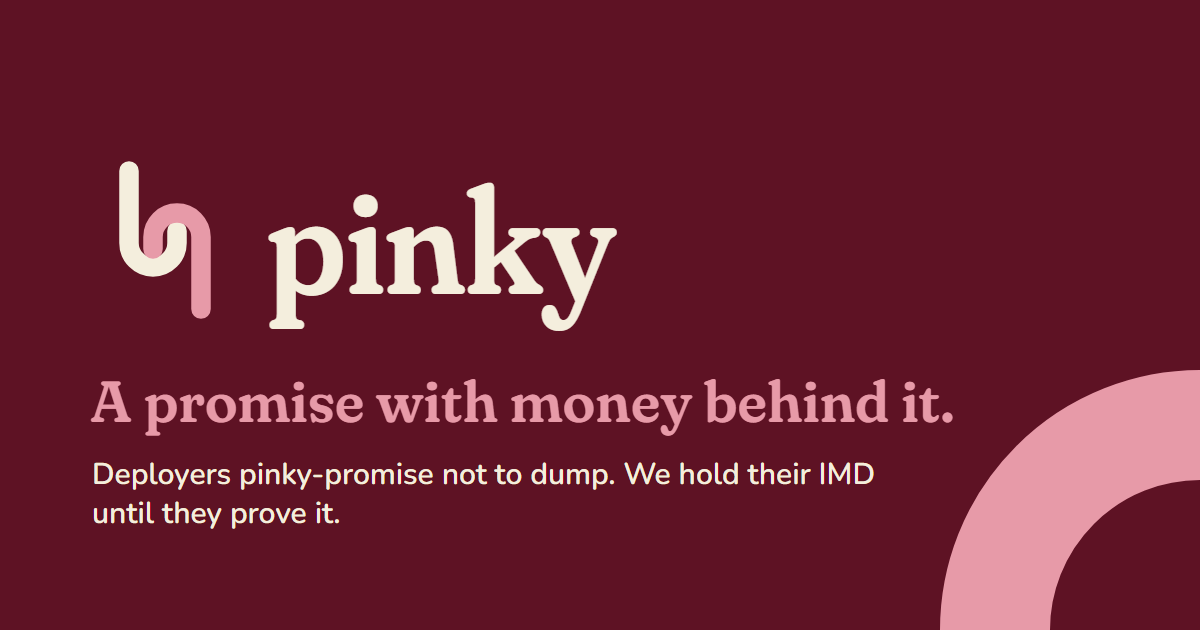
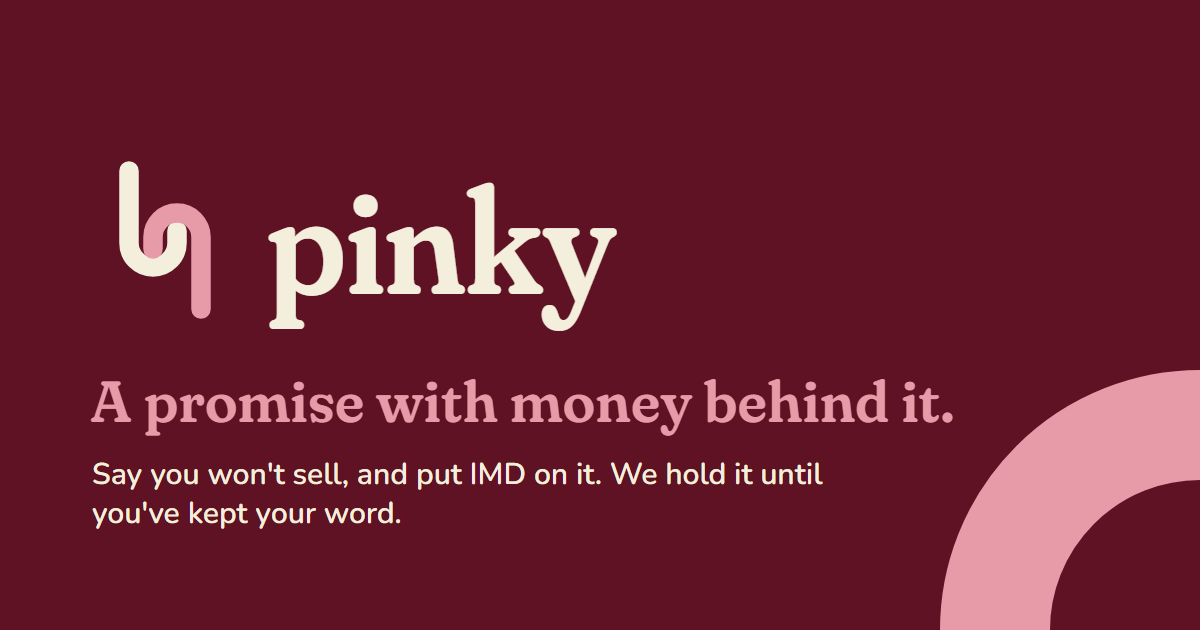
Speak to anyone who holds a token, not only to deployers
The vault never cared who makes a promise; the words did. The lede,
the first step, the descriptions and the preview image now address any
holder, and a new block gives three of them: the one who launched it,
the one who holds a lot, the one who was paid in it. The form refuses
an NFT address with a reason, and the README records why a promise
about an NFT would be judged on nothing.

Changed region(s): [[0.0617, 0.7238, 0.74, 0.8444]]

diff --git a/site/index.html b/site/index.html
@@ -4,12 +4,12 @@
 <meta charset="utf-8">
 <meta name="viewport" content="width=device-width, initial-scale=1">
 <title>Pinky — a promise with money behind it</title>
-<meta name="description" content="Deployers pinky-promise not to dump. Pinky holds their IMD until the IdentityMD oracle says they kept their word.">
+<meta name="description" content="Say you won&#39;t sell, and put IMD on it. Pinky holds the bond until the IdentityMD oracle says you kept your word.">
 <link rel="canonical" href="https://pinkybond.fun/">
 <meta property="og:type" content="website">
 <meta property="og:url" content="https://pinkybond.fun/">
 <meta property="og:title" content="Pinky — a promise with money behind it">
-<meta property="og:description" content="Deployers pinky-promise not to dump. Pinky holds their IMD until the IdentityMD oracle says they kept their word.">
+<meta property="og:description" content="Say you won&#39;t sell, and put IMD on it. Pinky holds the bond until the IdentityMD oracle says you kept your word.">
 <meta property="og:image" content="https://pinkybond.fun/og.png">
 <meta name="twitter:card" content="summary_large_image">
 <meta name="theme-color" content="#5E1224">
@@ -39,7 +39,7 @@
   <div class="wrap hero-grid">
     <div class="pitch">
       <h1>A promise with money behind it.</h1>
-      <p class="lede">Every deployer says they won't dump. Here they <mark>put IMD on it.</mark> Keep your word and it comes home. Break it and it doesn't.</p>
+      <p class="lede">Anyone can say they won't sell. Here you <mark>put IMD on it.</mark> Keep your word and it comes home. Break it and it doesn't.</p>
       <dl class="stats" id="stats">
         <div><dt>Promises made</dt><dd data-stat="made">—</dd></div>
         <div><dt>Kept</dt><dd data-stat="kept">—</dd></div>
@@ -96,15 +96,25 @@
     <p class="fine">Fair warning: this pays only when a promise is broken. If everyone keeps their word, stakers earn nothing, and that's the good outcome.</p>
   </section>
 
+  <section id="who">
+    <h2>Whose word?</h2>
+    <p class="sub">Anyone who holds a token and wants to be believed when they say they'll keep holding it.</p>
+    <ul class="who-list">
+      <li><h3>The one who launched it</h3><p><em>“The team's tokens stay put for the first week.”</em></p></li>
+      <li><h3>The one who holds a lot</h3><p><em>“I'm not selling into this. Watch my wallet.”</em></p></li>
+      <li><h3>The one who was paid in it</h3><p><em>“I got these for the post. I'm holding them for a month.”</em></p></li>
+    </ul>
+  </section>
+
   <section id="how">
     <h2>How it works</h2>
     <ol class="steps">
-      <li><h3>Put IMD on it</h3><p>A deployer picks a token, a limit and a deadline, and locks IMD behind one sentence: <em>my wallet won't move more than this before then.</em></p></li>
+      <li><h3>Put IMD on it</h3><p>Pick a token you hold, a limit and a deadline, and lock IMD behind one sentence: <em>my wallet won't move more than this before then.</em></p></li>
       <li><h3>Time runs out</h3><p>Anyone closes the promise. That fixes the exact block range it covered, start to finish.</p></li>
       <li><h3>The swarm counts</h3><p>The contract pays the IdentityMD oracle 0.5 IMD out of the bond. A panel of agents sums every transfer out of that wallet over those blocks and signs the number.</p></li>
       <li><h3>The number decides</h3><p>Within the limit: the bond goes home. Over it: a tenth goes to the first watcher who asked, and the rest is split between PINKY stakers and a burn.</p></li>
     </ol>
-    <p class="fine">A promise covers one wallet and one token, and nobody can pause or edit it once it's made. If the oracle can't answer after three tries, the bond is returned.</p>
+    <p class="fine">A promise covers one wallet and one ordinary token (ERC-20; NFTs aren't supported yet), and nobody can pause or edit it once it's made. If the oracle can't answer after three tries, the bond is returned.</p>
     <p class="fine">Before launch the IdentityMD swarm audited the contracts: one audit of the code as written, four specialist audits and a judge. What they found was fixed, and <a href="https://github.com/hexysdev/pinky/blob/main/ADAPTATION.md" target="_blank" rel="noopener">the list is public</a>. That is a review by AI agents, not an audit by an outside firm, so read the contracts before you trust them.</p>
   </section>
 </main>

diff --git a/site/style.css b/site/style.css
@@ -154,6 +154,11 @@ h3 { font: 700 18px/1.3 var(--sans); margin: 0 0 4px; }
 .pool-actions input:focus { outline: none; border-color: var(--pink); }
 .warn { margin: 0; padding: 10px 14px; border-radius: 12px; background: var(--wine); color: var(--ivory); font-size: 15px; }
 
+.who-list { list-style: none; padding: 0; margin: 0; display: grid; grid-template-columns: repeat(3, minmax(0, 1fr)); gap: 14px; }
+.who-list li { background: var(--paper); border: 1px solid var(--line); border-radius: 20px; padding: 18px 22px; }
+.who-list p { margin: 0; font: 400 19px/1.4 var(--display); font-variation-settings: 'SOFT' 100, 'WONK' 0; }
+.who-list em { font-style: normal; }
+
 .steps { list-style: none; counter-reset: step; padding: 0; margin: 20px 0; display: grid; grid-template-columns: repeat(2, minmax(0, 1fr)); gap: 14px; }
 .steps li { counter-increment: step; background: var(--paper); border: 1px solid var(--line); border-radius: 20px; padding: 18px 22px 16px; }
 .steps li::before { content: counter(step); display: inline-grid; place-items: center; width: 32px; height: 32px; border-radius: 50%; background: var(--pink); font: 600 17px var(--display); margin-bottom: 8px; }
@@ -191,6 +196,8 @@ h3 { font: 700 18px/1.3 var(--sans); margin: 0 0 4px; }
   .top .btn { margin-left: auto; }
   .hero { padding: 36px 0 36px; }
   .stats, .pool-stats { grid-template-columns: repeat(2, minmax(0, 1fr)); }
-  .steps { grid-template-columns: minmax(0, 1fr); }
+  .steps, .who-list { grid-template-columns: minmax(0, 1fr); }
   html { scroll-padding-top: 120px; }
 }
+
+.fine + .fine { margin-top: 8px; }

diff --git a/site/app.js b/site/app.js
@@ -607,7 +607,15 @@ $('#form').addEventListener('submit', async (ev) => {
   $('#submit').disabled = true;
   try {
     if (!state.account) await connect();
-    const decimals = Number(await walletCall(token, erc20Abi, 'decimals'));
+    // An ordinary token says how many decimals it has; an NFT does not. The vault's question to
+    // the oracle sums transfer amounts, which NFTs do not have, so a promise about one would be
+    // judged on nothing.
+    let decimals;
+    try {
+      decimals = Number(await walletCall(token, erc20Abi, 'decimals'));
+    } catch {
+      throw new Error("That address isn't an ordinary token. NFTs aren't supported yet.");
+    }
     const maxOut = parseUnits(f.maxOut.value.trim() || '0', decimals);
     const bond = parseUnits(f.bond.value.trim(), 18);
     if (bond < state.minBond) throw new Error(`The bond has to be at least ${imd(state.minBond)} IMD.`);

diff --git a/README.md b/README.md
@@ -2,8 +2,9 @@
 
 A promise with money behind it.
 
-Every deployer says they won't dump. Pinky lets them prove it. A deployer locks IMD behind a
-promise: *"my wallet will not move more than `maxOut` of this token before the deadline."* When
+Anyone can say they won't sell. Pinky lets them prove it. A holder — a deployer, a whale, someone
+paid in tokens to promote them — locks IMD behind a promise: *"my wallet will not move more than
+`maxOut` of this token before the deadline."* When
 time is up, the contract buys one answer from the IdentityMD oracle out of the bond — the sum of
 the wallet's outgoing `Transfer` values over the exact block range — and that answer decides
 where the bond goes. Keep your word and the IMD comes home. Break it and it doesn't.
@@ -25,7 +26,7 @@ oracle conformance vector). No third-party audit.
 
 ## How it works
 
-1. **make** — the deployer calls `PinkyVault.make(token, maxOut, duration, bond)`. The vault
+1. **make** — the holder calls `PinkyVault.make(token, maxOut, duration, bond)`. The vault
    pulls `bond` IMD, which must cover three oracle fees at the Intake's current quote, and records
    the current block. While the Intake quotes no price for the configured action (it is not sold
    yet, or no longer), `make` refuses, since such a promise could never be settled.
@@ -98,7 +99,7 @@ v5.5.0, forge-std v1.9.7); nothing is downloaded at build time.
   consumer reference asks, even for chain evidence where the oracle's own rerun settled a split.
   Each refused answer costs a fee, and after three, or a week, the bond is refunded. The launch's
   panel of seven with a quorum of five tolerates a split of two.
-- **One wallet.** A promise covers one wallet and one token. Tokens the deployer holds elsewhere
+- **One wallet.** A promise covers one wallet and one token. Tokens the maker holds elsewhere
   are not covered.
 - **No answer favours the maker.** If the oracle cannot answer, the bond is refunded. A maker who
   could make the question unanswerable would get their bond back. Anyone may re-ask after a day;
@@ -113,6 +114,10 @@ v5.5.0, forge-std v1.9.7); nothing is downloaded at build time.
   launch, one live request over a window of several days' blocks should be run, and if the oracle
   has a limit, `MAX_DURATION` capped to it.
 - **Standard tokens only.** Rebasing or fee-on-transfer tokens are out of scope.
+- **Not for NFTs.** The question sums the `value` of `Transfer` events. ERC-721 puts a token id
+  there instead of an amount and ERC-1155 uses other events, so a promise about an NFT would be
+  judged on nothing and could come back "kept" whatever the maker did. The vault itself does not
+  refuse an NFT address; the site's form does.
 - **Gas-limited payout.** The staker share is sent in a `try`; if it fails, that share is burned.
 
 ## Checked against the live oracle

diff --git a/brand/BRAND.md b/brand/BRAND.md
@@ -38,7 +38,7 @@ A friend who makes sure nobody gets played. Short, human, a little dry. Numbers 
 | New promise | Someone just put 20 IMD on not selling for an hour. We'll see. |
 | Kept | Kept their word. 20 IMD goes home. |
 | Broken | They sold. The pinky's broken, and so is the 20 IMD. |
-| Bio | Deployers pinky-promise not to dump. We hold their IMD until they prove it. |
+| Bio | Say you won't sell, and put IMD on it. We hold it until you've kept your word. |
 | Empty list | No promises yet. Be the first to mean it. |
 
 Avoid: "revolutionary", "to the moon", exclamation marks, lecturing, and the word "jeet".
